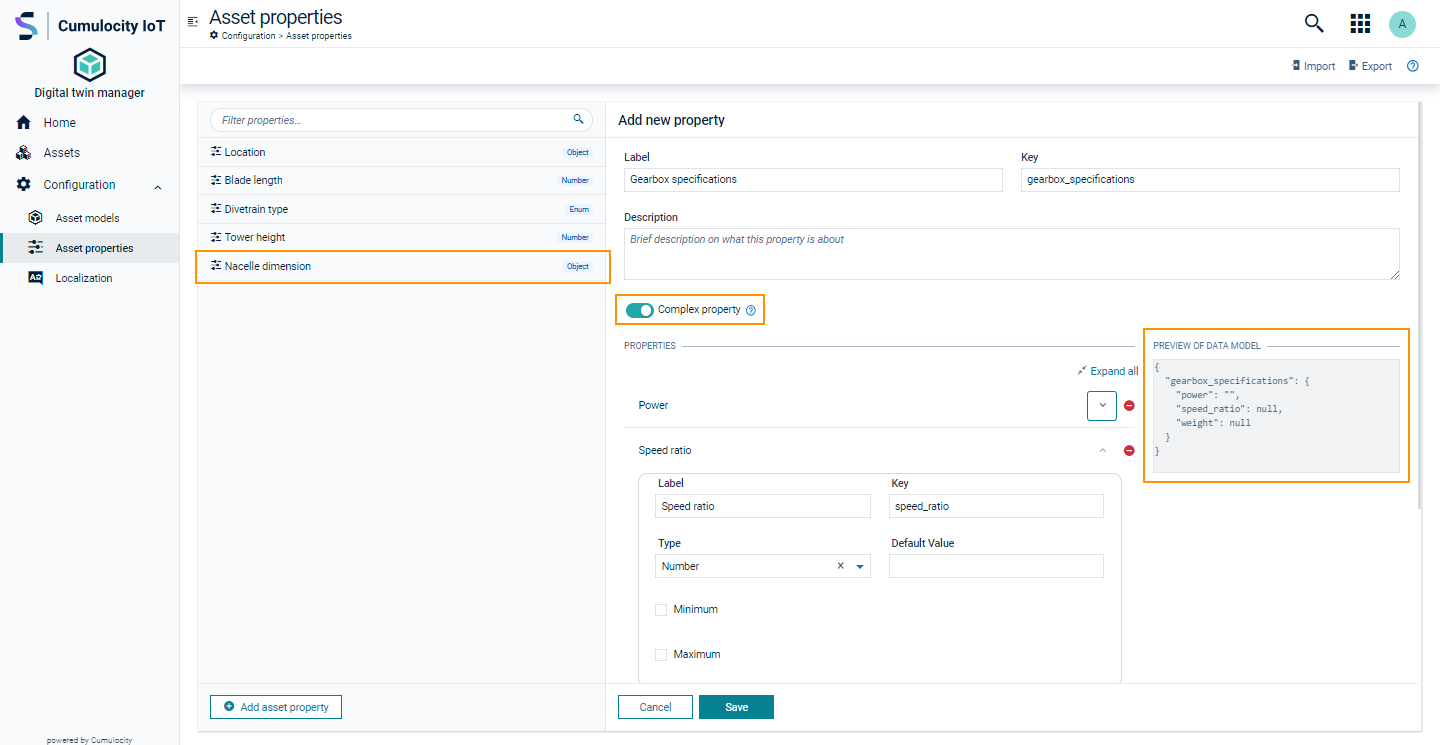
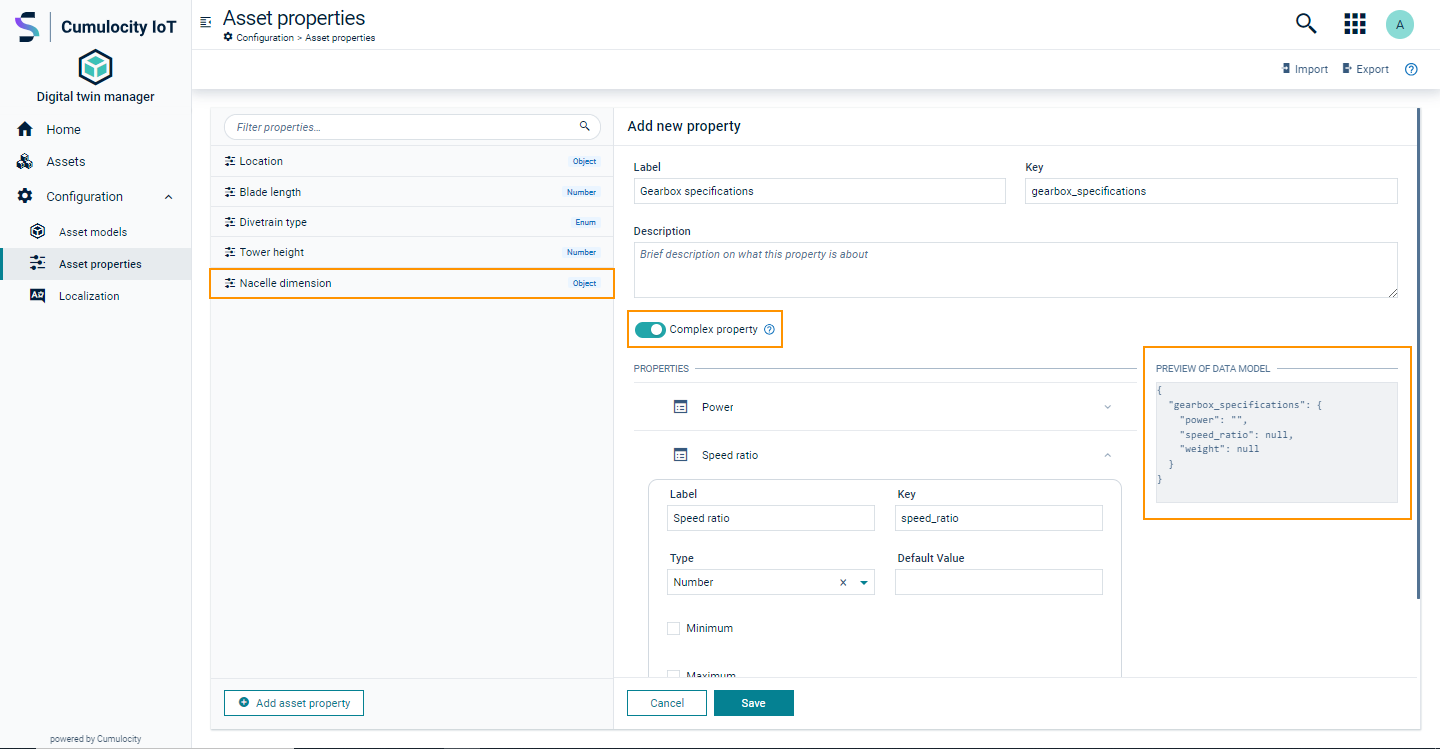
documentation changes for cd-1020.1.10

diff --git a/content/dtm/asset-types-bundle/asset-properties.md b/content/dtm/asset-types-bundle/asset-properties.md
@@ -272,7 +272,7 @@ In the **Asset properties** simple asset properties are listed with their type.
 
 #### Complex asset property {#complex-asset-property}
 
-A complex asset property consists of multiple key-value pairs, meaning, it contains a root object followed by one or more key-value pairs. You can select the complex asset property option by switching on the toggle. If you switch on the toggle, you must define each key-value pair as well as providing a type for each pair. You can arrange the properties in the required order by dragging and dropping them. Hover over the row to see the drag icon. Click and drag the drag icon for reordering. You can expand all key-value pairs at a time using **Expand all**. Alternatively, you can expand each key-value pair to see a specific property. When you add a new key-value pair, it automatically expands.
+A complex asset property consists of multiple key-value pairs, meaning, it contains a root object followed by one or more key-value pairs. You can select the complex asset property option by switching on the toggle. If you switch on the toggle, you must define each key-value pair as well as providing a type for each pair. You can arrange the properties in the required order by dragging and dropping them. Hover over the row to see the drag icon. Click and drag the drag icon for reordering. You can expand each key-value pair to see a specific property. When you add a new key-value pair, it automatically expands.
 
 In the **Asset properties** complex asset properties are listed with the label "Object".
 
